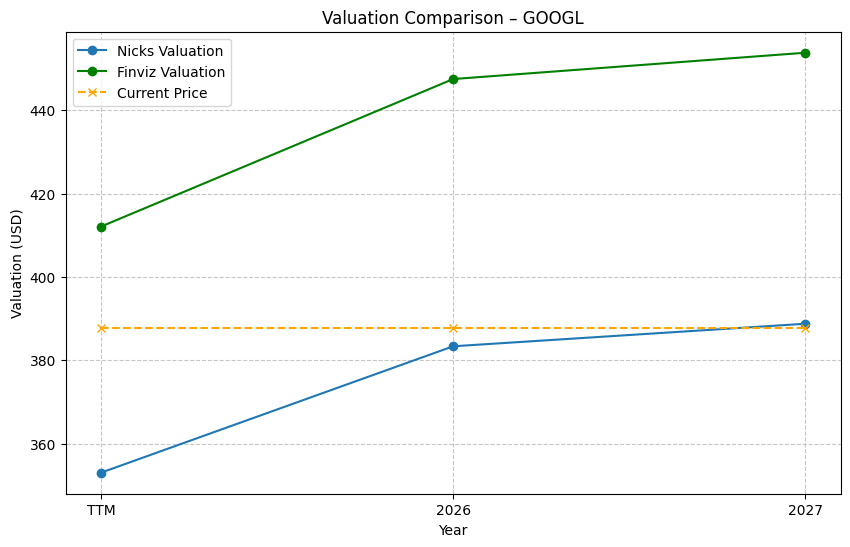
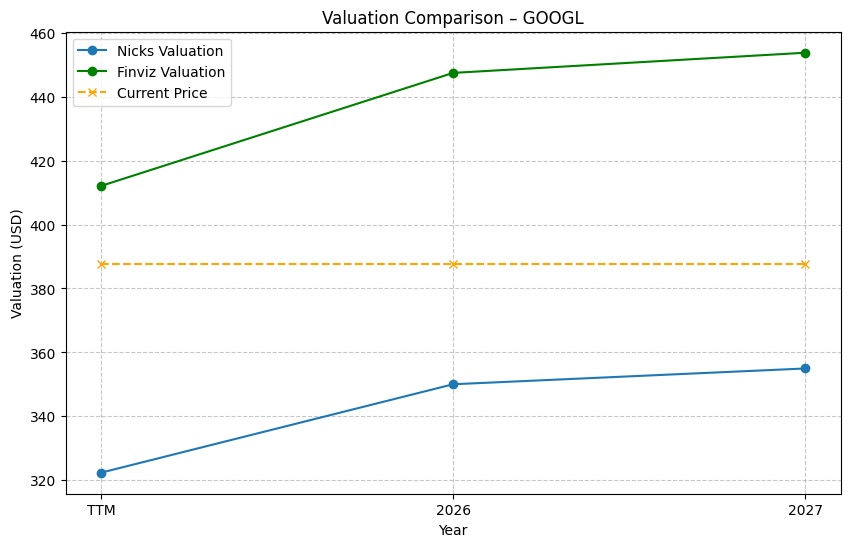
Assumptions: GOOGL growth 15.0 -> 14

diff --git a/pages/GOOGL_page.html b/pages/GOOGL_page.html
@@ -38,7 +38,7 @@
         
         <li>· <a href="https://finance.yahoo.com/sectors/technology/articles/samba-tv-launches-project-gravity-220000815.html?.tsrc=rss" target="_blank" rel="noopener noreferrer">Samba TV Launches Project Gravity, an Independent Data Activation Platform for the Agentic Era</a></li>
         
-        <li>· <a href="https://finance.yahoo.com/sectors/technology/articles/ibm-shares-soar-us-funding-204755497.html?.tsrc=rss" target="_blank" rel="noopener noreferrer">IBM Shares Soar on US Funding for $2 Billion Quantum Push</a></li>
+        <li>· <a href="https://finance.yahoo.com/sectors/technology/articles/ibm-shares-soar-on-us-funding-for-2-billion-quantum-push-204755848.html?.tsrc=rss" target="_blank" rel="noopener noreferrer">IBM Shares Soar on US Funding for $2 Billion Quantum Push</a></li>
         
         <li>· <a href="https://www.fool.com/investing/2026/05/21/why-applied-digital-stock-soared-today/?.tsrc=rss" target="_blank" rel="noopener noreferrer">Why Applied Digital Stock Soared Today</a></li>
         
@@ -693,9 +693,9 @@
     <tr>
       <td>$387.66</td>
       <td>4.6%</td>
-      <td>Nicks&nbsp;Growth:&nbsp;15%<br>Nick's&nbsp;Expected&nbsp;Margin:&nbsp;25%<br>FINVIZ&nbsp;Growth:&nbsp;17%</td>
-      <td>Nicks:&nbsp;27<br>Finviz:&nbsp;31</td>
-      <td>Nick's: 6.733</td>
+      <td>Nicks&nbsp;Growth:&nbsp;14%<br>Nick's&nbsp;Expected&nbsp;Margin:&nbsp;25%<br>FINVIZ&nbsp;Growth:&nbsp;17%</td>
+      <td>Nicks:&nbsp;25<br>Finviz:&nbsp;31</td>
+      <td>Nick's: 6.147</td>
       <td>11.1</td>
       <td>29.6</td>
     </tr>
@@ -716,24 +716,24 @@
     <tr>
       <td>$13.11 EPS</td>
       <td>TTM</td>
-      <td>$353.06</td>
-      <td><span style="color: red">-8.9%</span></td>
+      <td>$322.35</td>
+      <td><span style="color: red">-16.8%</span></td>
       <td>$412.07</td>
       <td><span style="color: green">6.3%</span></td>
     </tr>
     <tr>
       <td>$14.24 EPS</td>
       <td>2026</td>
-      <td>$383.38</td>
-      <td><span style="color: red">-1.1%</span></td>
+      <td>$350.04</td>
+      <td><span style="color: red">-9.7%</span></td>
       <td>$447.46</td>
       <td><span style="color: green">15.4%</span></td>
     </tr>
     <tr>
       <td>$14.44 EPS</td>
       <td>2027</td>
-      <td>$388.79</td>
-      <td><span style="color: green">0.3%</span></td>
+      <td>$354.98</td>
+      <td><span style="color: red">-8.4%</span></td>
       <td>$453.78</td>
       <td><span style="color: green">17.1%</span></td>
     </tr>

diff --git a/charts/GOOGL_valuation_table.html b/charts/GOOGL_valuation_table.html
@@ -13,24 +13,24 @@
     <tr>
       <td>$13.11 EPS</td>
       <td>TTM</td>
-      <td>$353.06</td>
-      <td><span style="color: red">-8.9%</span></td>
+      <td>$322.35</td>
+      <td><span style="color: red">-16.8%</span></td>
       <td>$412.07</td>
       <td><span style="color: green">6.3%</span></td>
     </tr>
     <tr>
       <td>$14.24 EPS</td>
       <td>2026</td>
-      <td>$383.38</td>
-      <td><span style="color: red">-1.1%</span></td>
+      <td>$350.04</td>
+      <td><span style="color: red">-9.7%</span></td>
       <td>$447.46</td>
       <td><span style="color: green">15.4%</span></td>
     </tr>
     <tr>
       <td>$14.44 EPS</td>
       <td>2027</td>
-      <td>$388.79</td>
-      <td><span style="color: green">0.3%</span></td>
+      <td>$354.98</td>
+      <td><span style="color: red">-8.4%</span></td>
       <td>$453.78</td>
       <td><span style="color: green">17.1%</span></td>
     </tr>

diff --git a/charts/GOOGL_valuation_info.html b/charts/GOOGL_valuation_info.html
@@ -14,9 +14,9 @@
     <tr>
       <td>$387.66</td>
       <td>4.6%</td>
-      <td>Nicks&nbsp;Growth:&nbsp;15%<br>Nick's&nbsp;Expected&nbsp;Margin:&nbsp;25%<br>FINVIZ&nbsp;Growth:&nbsp;17%</td>
-      <td>Nicks:&nbsp;27<br>Finviz:&nbsp;31</td>
-      <td>Nick's: 6.733</td>
+      <td>Nicks&nbsp;Growth:&nbsp;14%<br>Nick's&nbsp;Expected&nbsp;Margin:&nbsp;25%<br>FINVIZ&nbsp;Growth:&nbsp;17%</td>
+      <td>Nicks:&nbsp;25<br>Finviz:&nbsp;31</td>
+      <td>Nick's: 6.147</td>
       <td>11.1</td>
       <td>29.6</td>
     </tr>
